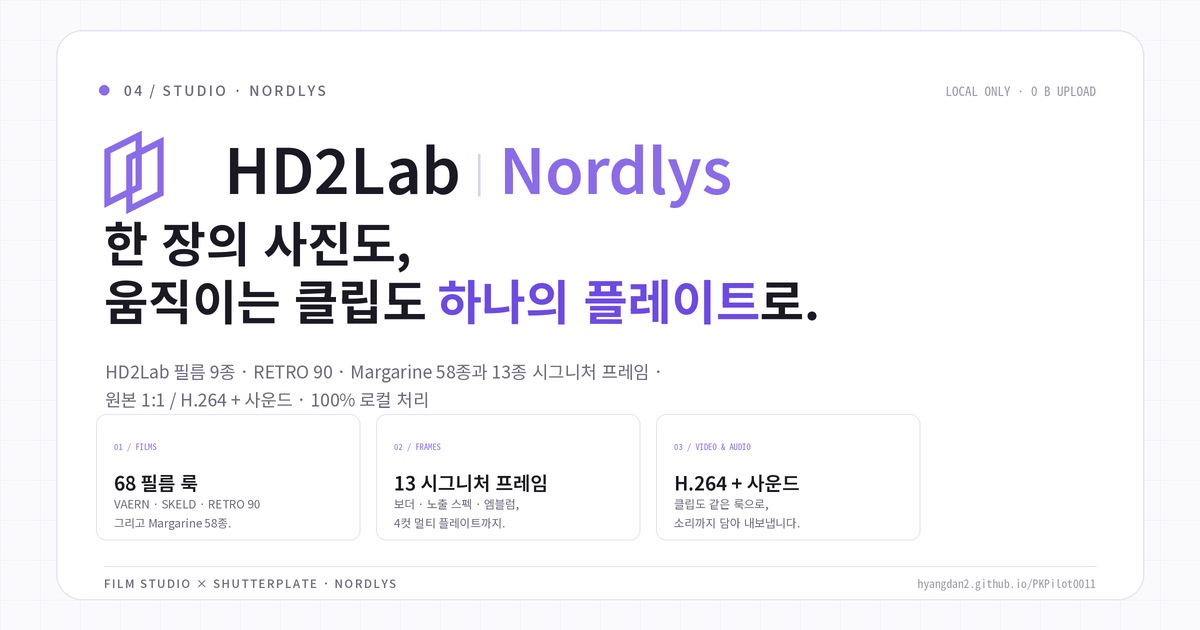
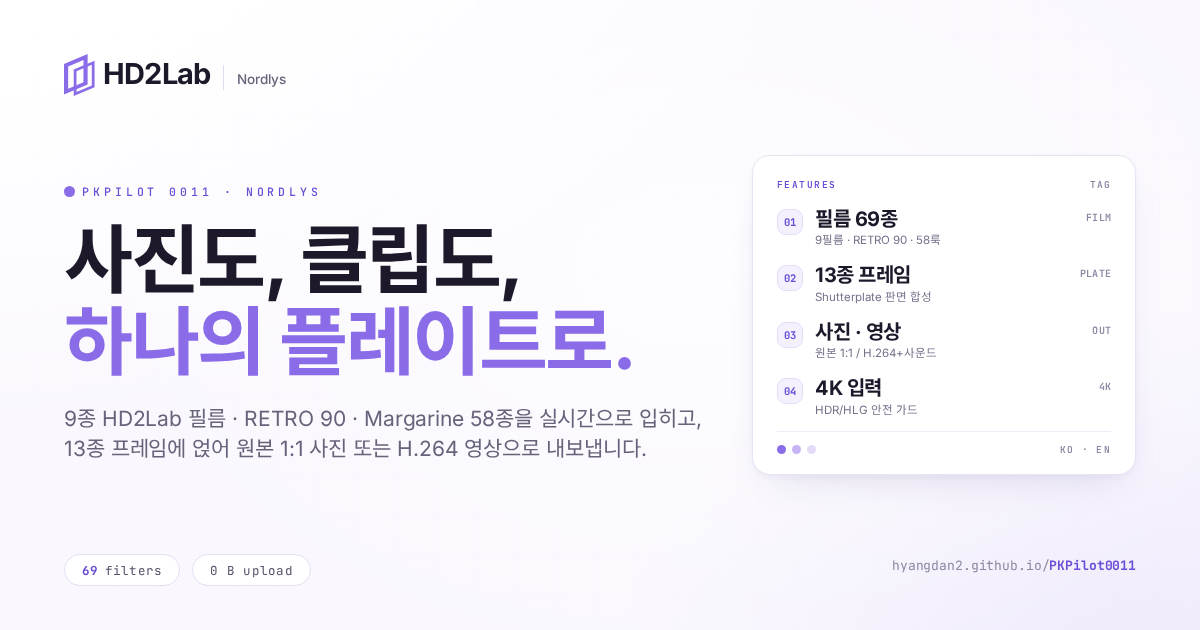
chore(og): share card in the HD2's Diary OG style (#2)
Rebuild og:image / twitter:image as the 1200x630 Diary-style card (Soft Iris wash, dual-skew mark, left title, right feature card) and bump the cache-busting query to ?v=20261121-og.

diff --git a/index.html b/index.html
@@ -36,11 +36,11 @@
     <meta property="og:url" content="https://hyangdan2.github.io/PKPilot0011/" />
     <meta
       property="og:image"
-      content="https://hyangdan2.github.io/PKPilot0011/og-image.png?v=20261120-nordlys2"
+      content="https://hyangdan2.github.io/PKPilot0011/og-image.png?v=20261121-og"
     />
     <meta
       property="og:image:secure_url"
-      content="https://hyangdan2.github.io/PKPilot0011/og-image.png?v=20261120-nordlys2"
+      content="https://hyangdan2.github.io/PKPilot0011/og-image.png?v=20261121-og"
     />
     <meta property="og:image:type" content="image/png" />
     <meta property="og:image:width" content="1200" />
@@ -59,7 +59,7 @@
     />
     <meta
       name="twitter:image"
-      content="https://hyangdan2.github.io/PKPilot0011/og-image.png?v=20261120-nordlys2"
+      content="https://hyangdan2.github.io/PKPilot0011/og-image.png?v=20261121-og"
     />
   </head>
   <body>
